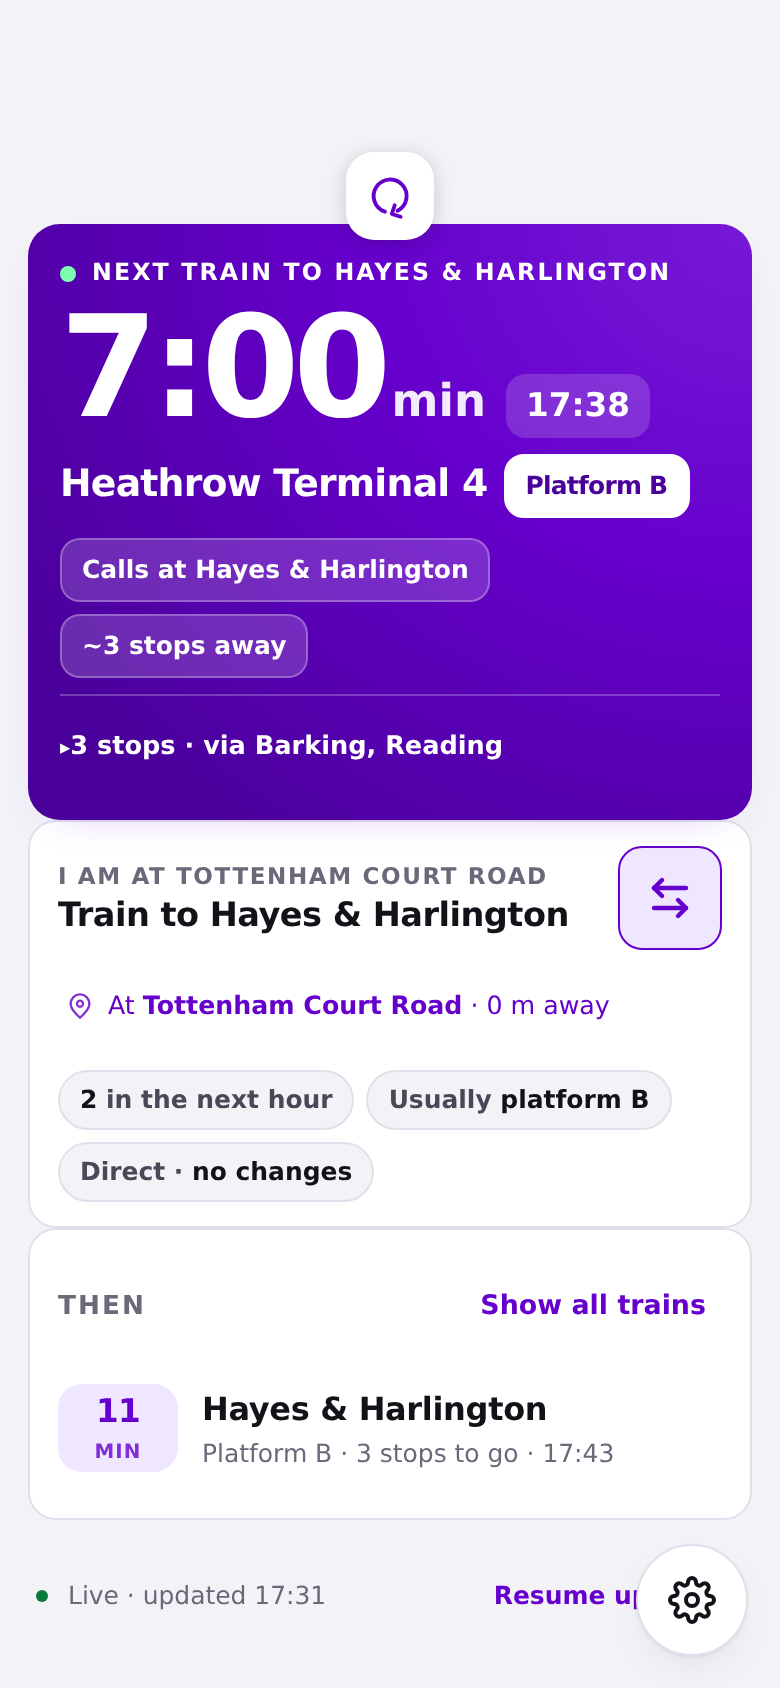
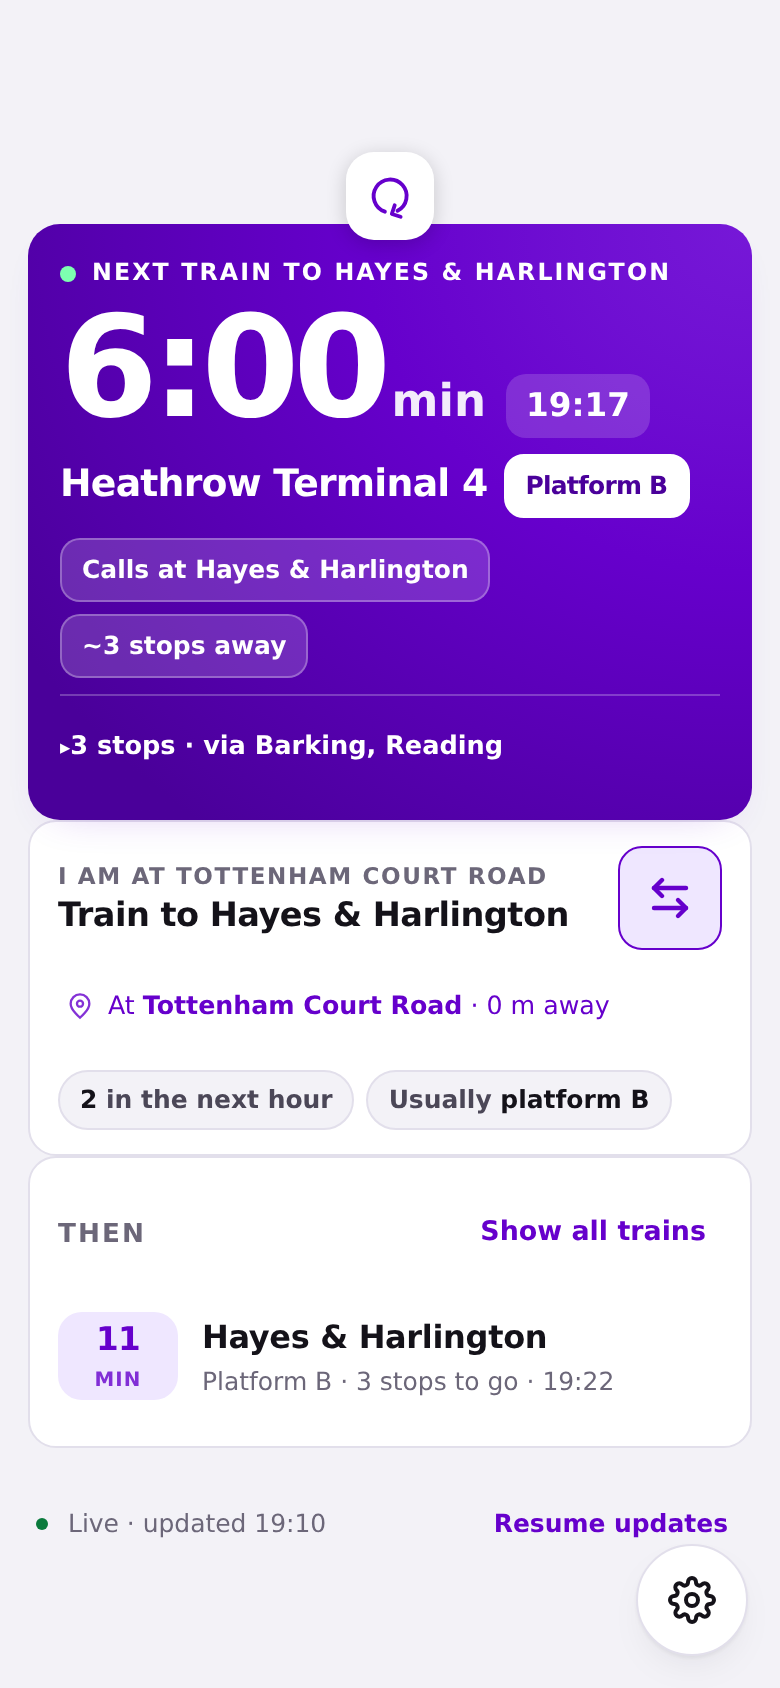
v1.5.7: retire the 'Direct · no changes' pill
- a hardcoded constant on a single-line board where every offered train is
  direct by construction; the honest facts (per hour, usual platform) stay

diff --git a/web/index.html b/web/index.html
@@ -1231,7 +1231,6 @@ function renderJourney(){
   const soon = decorate(state.arrivals).filter(d => isGood(d) && d.minutes >= 0 && d.minutes <= 60).length;
   if(soon) facts.push(`<span class="fact"><b>${soon}</b> in the next hour</span>`);
   if(plat) facts.push(`<span class="fact">Usually <b>platform ${esc(plat)}</b></span>`);
-  facts.push(`<span class="fact">Direct · <b>no changes</b></span>`);
   if(settings.demo) facts.push(`<span class="fact" style="color:var(--warn)">Sample data</span>`);
   $("facts").innerHTML = facts.join("");
 }
@@ -2270,6 +2269,9 @@ let geoDeferred = !store.get("setupSeen", false);
 if(settings.geoOn && !geoDeferred){ startGeoWatch(); pollGeoOnce(); }
 if(isNativeApp() && Date.now() - state.updateCheckedAt > UPDATE.staleMs){ UPDATE.check(false); }
 const NOTES = {
+  "1.5.7": [
+    "The \u201cDirect \u00b7 no changes\u201d pill is gone. Every train on this board already runs straight to your other station \u2014 saying so on every screen was noise, not news."
+  ],
   "1.5.6": [
     "Line-status notices now fit the app: a new problem slides in as a card — tap it for the full story in a proper sheet.",
     "Swipe the notice away (or tap its cross) and a small pill stays up top; tap the pill any time to read it all again.",

diff --git a/CHANGELOG.md b/CHANGELOG.md
@@ -3,6 +3,13 @@
 Worth-noting changes only. The version in `package.json` and `versionName` in
 `android/app/build.gradle` move together; tags are the version with a `v` in front.
 
+## 1.5.7 — 2026-11-16
+
+- Dropped the "Direct · no changes" fact pill from the journey card: it was a
+  hardcoded constant (every offered train on a single-line board is direct by
+  construction) dressed up as a computed fact; the real facts — trains in the
+  next hour, usual platform, sample-data warning — stay
+
 ## 1.5.6 — 2026-11-16
 
 - Line status rebuilt around one gesture: a new problem shows as a card whose whole body
